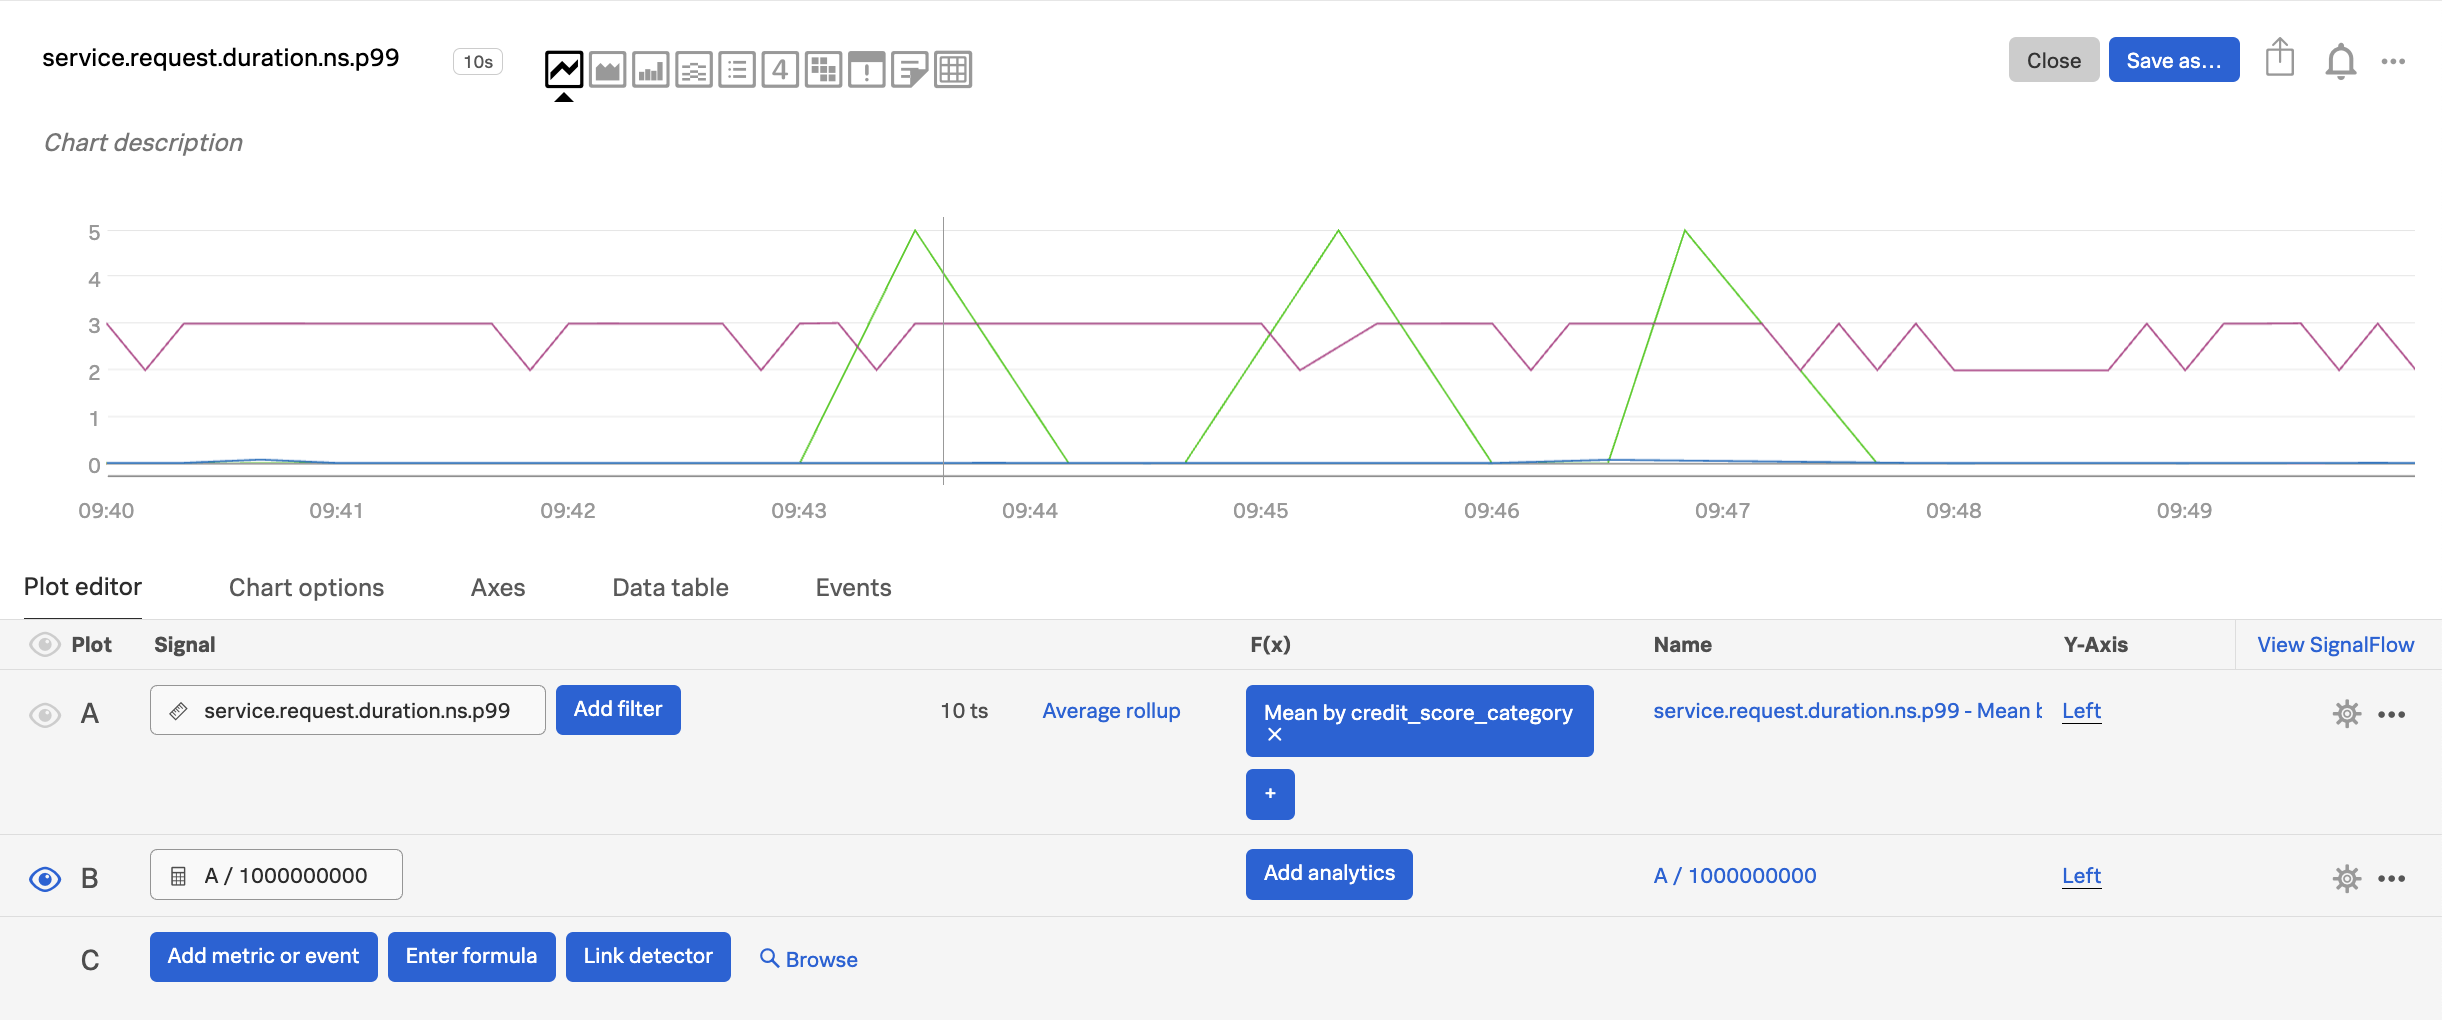
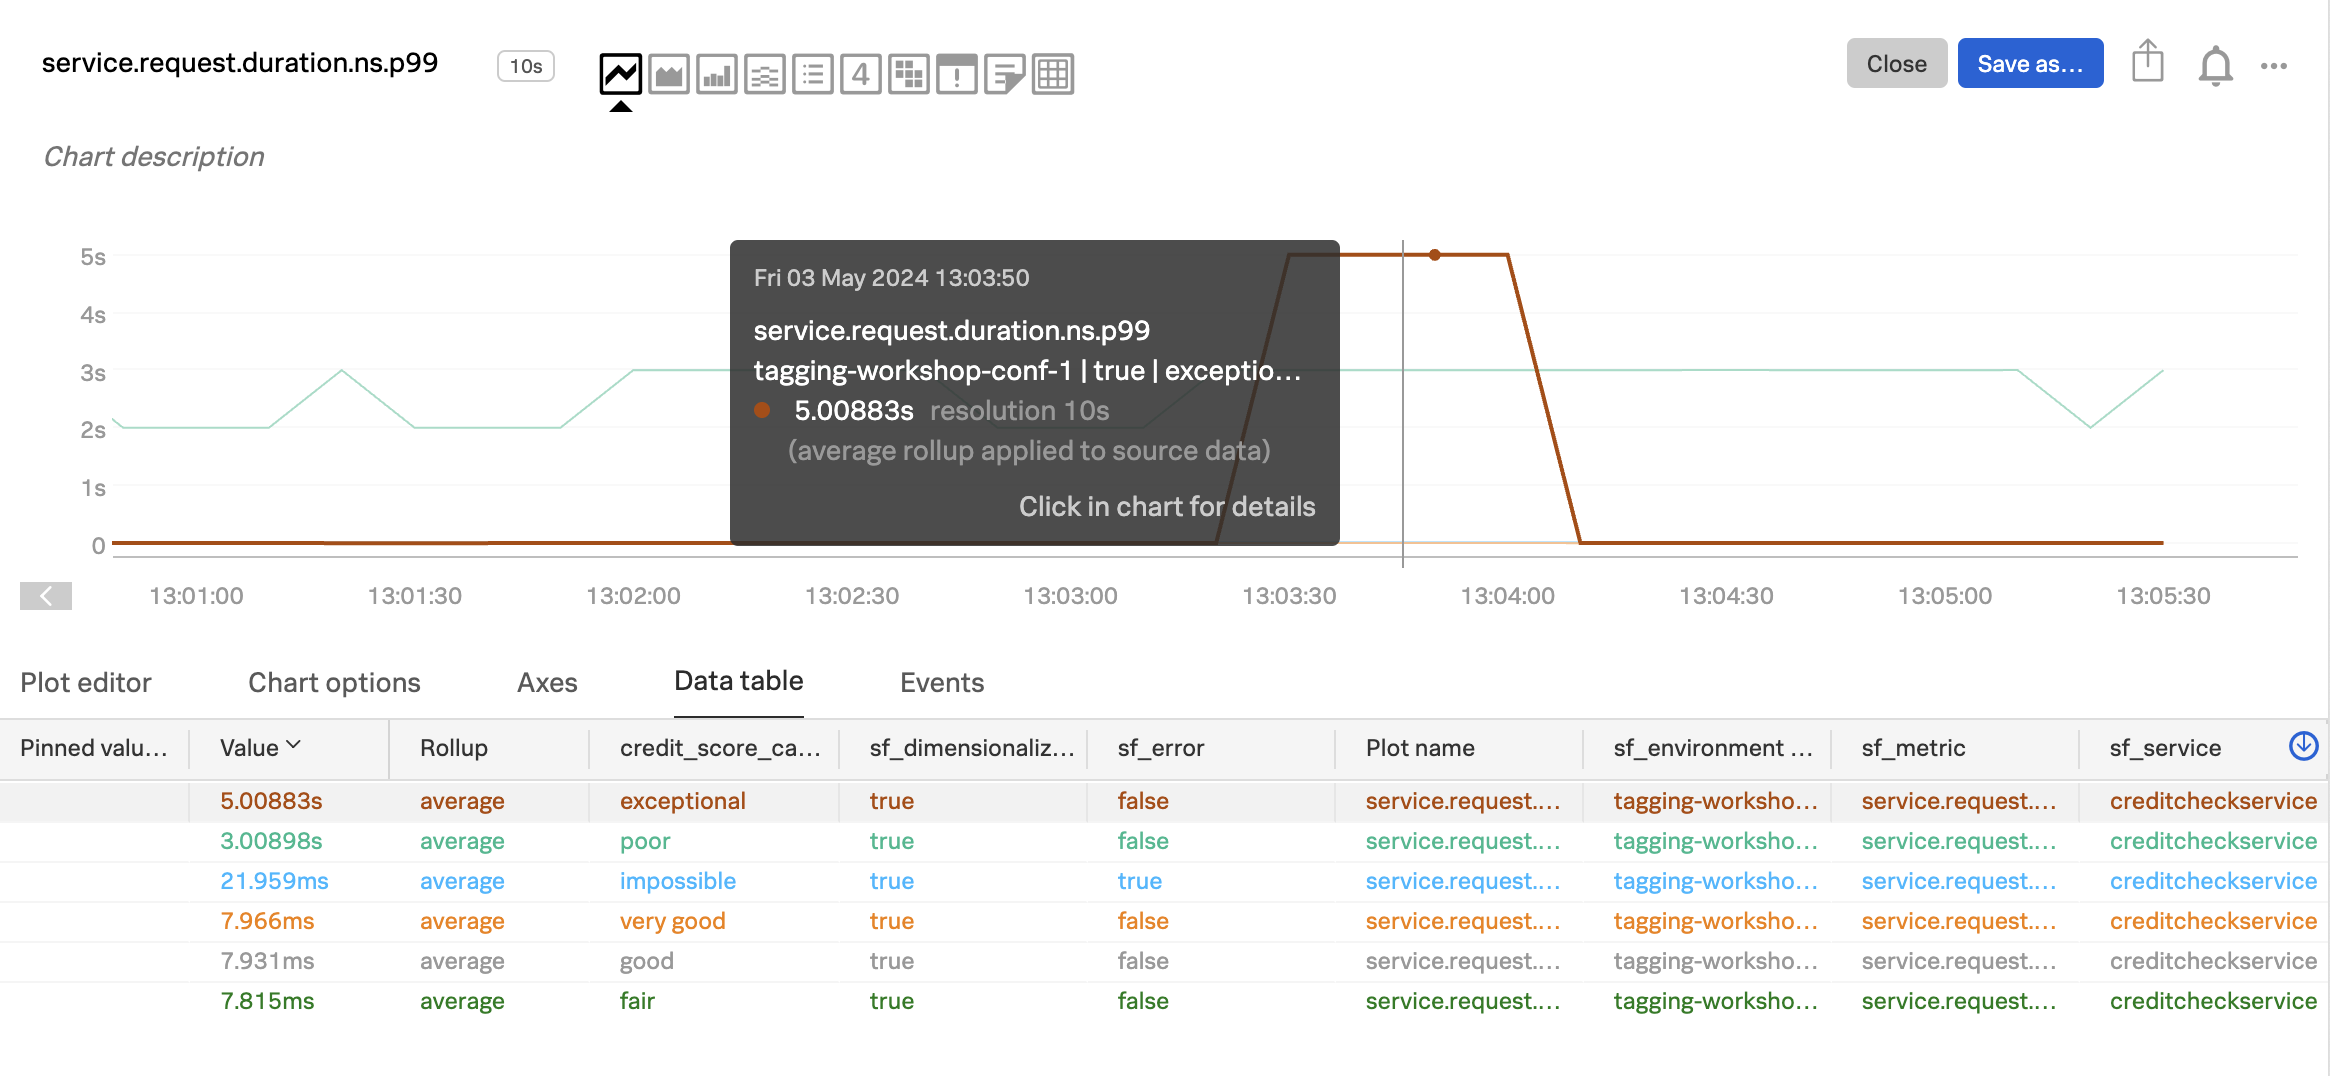
content changes for understand impact workshop

diff --git a/content/en/scenarios/understand_impact_of_changes/7-alerting-and-dashboards.md b/content/en/scenarios/understand_impact_of_changes/7-alerting-and-dashboards.md
@@ -41,25 +41,25 @@ To see how, let's click on the metric named `service.request.duration.ns.p99`, w
 
 ![Service Request Duration](../images/service_request_duration_chart.png)
 
-This metric tracks the p99 response time of service requests in nanoseconds, broken down by various attributes. Nanoseconds are bit too granular for our needs, so let's click **Enter formula** and convert this to seconds by entering `A / 1000000000`.  Then we can hide `A` and show only `B`:
+Add filters for `sf_environment`, `sf_service`, and `sf_dimensionalized`.  Then set the **Extrapolation policy** to `Last value` and the **Display units** to `Nanosecond`:
 
-![Chart with Seconds](../images/chart_with_seconds.png)
+![Chart with Seconds](../images/chart_settings.png)
 
-Next, let's break down the chart by credit score category. Click on the **Add analytics** button on the first row, select **Mean**, then **Mean:Aggregation**, then Group By the `credit_score_category` dimension:
+With these settings, the chart allows us to visualize the service request duration by credit score category:
 
 ![Duration by Credit Score](../images/duration_by_credit_score.png)
 
-Now we can see the duration by credit score category. In my example, the green line represents the `exceptional` category, and we can see that the duration for these requests sometimes goes all the way up to 5 seconds.
+Now we can see the duration by credit score category. In my example, the red line represents the `exceptional` category, and we can see that the duration for these requests sometimes goes all the way up to 5 seconds.
 
-The yellow line represents the `very good` category, and has very fast response times.
+The orange represents the `very good` category, and has very fast response times.
 
-The magenta line represents the `poor` category, and has response times between 2-3 seconds.
+The green line represents the `poor` category, and has response times between 2-3 seconds.
 
 It may be useful to save this chart on a dashboard for future reference. To do this, click on the **Save as...** button and provide a name for the chart:
 
 ![Save Chart As](../images/save_chart_as.png)
 
-When asked which dashboard to save the chart to, let's create a new one named `Credit Check Service`:
+When asked which dashboard to save the chart to, let's create a new one named `Credit Check Service - Your Name` (substituting your actual name):
 
 ![Save Chart As](../images/create_dashboard.png)
 
